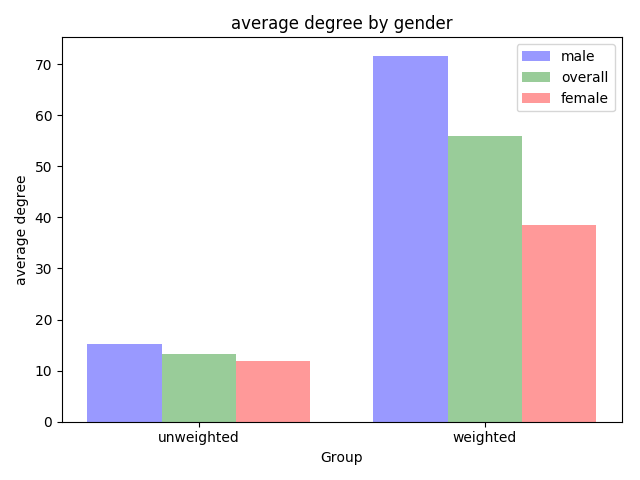
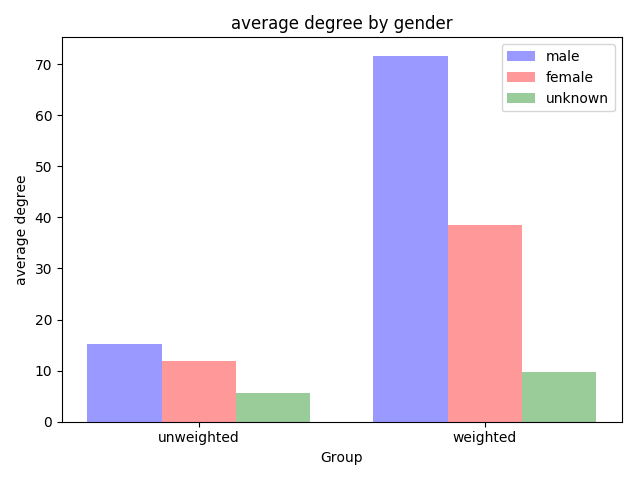
only dynamics, conclusion, future left

Changed region(s): [[0.6875, 0.2812, 0.9375, 0.9062], [0.25, 0.7188, 0.5, 0.9062], [0.7812, 0.0938, 0.9688, 0.2188]]

diff --git a/writeup/static_analysis.tex b/writeup/static_analysis.tex
@@ -1,8 +1,7 @@
 \section{Static-Network Analysis}
 
 \subsection{Small World}
-At the book's end, the largest component has 224 nodes and the diameter is 5.
-Since $ln(224) = 5.41$, we see that this network does indeed display the small world property, similar to real-world social networks.
+At the book's end, the largest component has 224 nodes and a diameter of 5. Like real-world social networks, the book's social network display the ``small world'' property, as the diameter grows with the log of the nodes ($ln(224) = 5.41$).
 
 \subsection{Degree Distribution}
 
@@ -16,38 +15,37 @@ Since $ln(224) = 5.41$, we see that this network does indeed display the small w
         \includegraphics[width=1.\textwidth]{images/unweighted_degree_distr_ccdf.pdf}
         \caption{Unweighted degree distribution.}
     \end{subfigure}
-    \caption{Degree distributions on a log-log scale. Though we do observe a heavy tail, we do not see a power law.}
+    \caption{Degree distributions on a log-log scale. The distribution has a heavy tail, but does not follow a power law.}
     \label{fig:degree_distr}
 \end{figure}
 
-The degree distributions for the weighted and unweighted networks are shown as a CCDF in Figure \ref{fig:degree_distr}. We see a heavy tail like we might expect from many real-world networks, but neither appear to show a power law in the tail. 
+The degree distributions for the weighted and unweighted networks are shown as a CCDF in Figure~\ref{fig:degree_distr}. We see a heavy tail like we as expect from many real-world networks, but neither the unweighted nor the weighted degree distribution show a power law in the tail. 
 
-In the unweighted network in particular we see a distribution that clearly has more high-degree nodes than expected under a Poisson random graph, yet the tail drops of much faster than expected in a scale-free network.
-The weighted degree distribution shows a heavier tail than the unweighted one, suggesting the distribution of character mentions within the book is much more uneven than the unweighted graph of character interactions. The weighted network is closer to a power law, though we still hesitate to call it scale-free.
+Particularly in the unweighted network, the degree distribution has more high-degree nodes than would expected if the network were a Poisson random graph, though the tail drops of more quickly than expected in a scale-free network.
 
-%$P(k) \sim k^{-\tau}$, or power law with a cutoff, $P(k) \sim k^{-\tau}10^{-k/c}$
+The weighted degree distribution has a heavier tail than the unweighted one, suggesting the distribution of character mentions is more uneven than the distribution of character interactions. The weighted network is closer to a power law, but not close enough to call scale-free.
 
-We can only speculate on the attachment mechanism behind the degree distribution, leaving testing such hypothesis to future work. Since the degree distribution does not follow a power law, vertex copying and preferential attachment do not make sense. 
-Perhaps main characters are introduced in the beginning, and the book does not contain many minor throw-away characters.
+We only speculate on the attachment mechanism behind the degree distribution. Vertex copying and preferential attachment do not make sense, as the degree distribution does not follow a power law. However, it seems reasonable that main characters receive more attention in a narrative network than would be expected in other kinds of networks, explaining some of the heavy tail.
 
-The average degree is 13.31 and the average weighted degree is 55.95
+The average unweighted degree is $13.31$ and the average weighted degree is $55.95$.
 
 \subsection{Clustering}
-Using the transitivity definition of clustering coefficient, we can examine the fraction of closed triads.
+We examine the fraction of closed triads by applying the transitivity definition of the clustering coefficient:
+
 $$ C = \frac{\text{(number of triangles)} \cdot 3}{\text{number of connected triples}} $$
 
-This metric disregards the edge weights, looking only at connections between characters. We find $C = 0.3930$, reflecting the relatively dense connections -- perhaps within communities such as the Tennis Academy or Halfway House -- as opposed to a tree-like structure rooted at the highest-degree (main) characters.
+This metric disregards edge weights and looks at only the connections between characters. We find $C = 0.3930$, reflecting a fairly high density of connections -- likely a result of the strong community structure in Enfield Tennis Academy and the Halfway House. We do \textit{not} observe a tree-like structure rooted at the highest-degree (main) characters.
 
-We can compare the clustering coefficient against the configuration model to determine if this effect is due to the degree sequence alone or perhaps reflects a conscious author choice. We find configuration model we get an average local clustering coefficient of 0$.1728$, vs $0.3930$ in the book. 
+To determine if this effect is due to the degree sequence alone or reflective of author choice, we compare the book's clustering coefficient to an estimate produced by the averaging 100 configuration model simulations. Our simulations produce an average local clustering coefficient of 0$.1728$ -- significantly lower than what was found in the book's network.
 
-For further (admittedly unscientific) reference, we calculated the transitivity for 5 of the smallest networks in the FB100. Admittedly those networks were larger than this book ($n=769$ to $1659$), but we found the clustering coefficient for them to be 0.2403, so on the same order of our results.
+We also compare the clustering coefficient against 5 of the smallest networks in the FB100 dataset. These networks range in size from $n=769$ to $n=1659$, significantly larger than the network present in \infinitejest. We find an average clustering coefficient of $0.2403$, which is closer to the book's results than our configuration model simulations. It seems that the book's network is more clustered than a real-world social network. It's worth noting that Alberich et al.\ (2002) found their Marvel network was \textit{less} clustered than real-world social networks.\cite{2002marvel}
 
 \subsection{Modularity}
-The book has three main communities: the Tennis Academy, the Ennet House, and the Wheelchair Assassins. The modularity of these hand-labeled communities is 0.291, calculated according to the following equation:
+The book's characters generally fall into one of two communities: Enfield Tennis Academy, or the Ennet House. We label these and a few other, smaller communities: the Wheelchair Assassins, the Antitois brothers, and persons associated with the US/ONAN government. The modularity of these hand-labeled communities is 0.291, calculated according to the following equation:
 
 $$Q = \frac{1}{2m}\sum_{ij} \left(A_{ij} - \frac{k_ik_j}{2m} \right) \delta(c_i,c_j) = \sum_u e_{uu} - a_u $$
 
-The greedy modularity maximization algorithm successfully recovers all three communities, though it places some high-degree nodes like Hal into their own community. Still, the hierarchically the detected communities have high agreement with the labeled communities, with a Normalized Mutual Information (NMI) of 0.605.
+A greedy modularity maximization algorithm successfully recovers these communities, though it does place high-degree nodes like Hal in their own community. Still, the greedy algorithm generates communities that are in high agreement with our hand-labeled set -- the two partitions have a Normalized Mutual Information of 0.605.
 
 \begin{figure}[ht]
     \centering
@@ -66,21 +64,19 @@ The greedy modularity maximization algorithm successfully recovers all three com
 The labeled communities and detected communities are visible in Figure \ref{fig:modularity}.
 
 \subsection{Assortativity}
-Since the network has clear community structure, we can begin to ask if characters in the network are associated with other characters according to certain attribute similarities. We examine gender assortativity and degree assortativity.
+How do characters interact based on their association and gender?
 
 \subsubsection{Degree Assortativity}
-We see an unweighted degree assortative mixing coefficient of -0.0945.
-Degree assortative networks typically reflect core-periphery structures, where a dense core of highly-connected nodes is surrounded by successively less-dense periphery nodes. Degree disassortative networks, on the other hand, are more stars with high-degree nodes connected to low-degree. 
+We observe an unweighted degree assortative mixing coefficient of -0.0945, showing some degree disassortativity. Degree assortative networks typically reflect core-periphery structures, where a dense core of highly-connected nodes is surrounded by successively less-dense periphery nodes. Degree disassortative networks, on the other hand, are more often configured like a star, where high-degree nodes connected to low-degree. 
 
-According to Newman in {\em Networks}, social networks are unusual in that they typically have a positive degree assortativity \cite{NewmanBook}. 
-Therefore it is strange for us to see disassortative mixing by degree in \infinitejest, possibly indicating more of a star-like structure or fewer community structures than real-world social networks.
+According to Newman in {\em Networks}, social networks are unusual in that they typically have a positive degree assortativity \cite{NewmanBook}. Therefore it is strange for us to see disassortative mixing by degree in \infinitejest. This indicates either a star-like structure or fewer community structures than would be expected of a real-world social network.
 
 \subsubsection{Gender Assortativity}
-To examine gender assortativity, we labeled all of the characters with a gender attribute where the gender was clear from the text. Of 229 nodes, we did not assign a label to 27 of them. We found the assortativity to be 0.0858, indicating positive assortative mixing by gender: genders of the same type are more likely to co-occur in this text. 
+To examine gender assortativity, we label the characters with a gender attribute where the gender was clear from the text. Of 229 nodes, 27 have no label assigned to them. We find the assortativity to be 0.0858, indicating positive assortative mixing by gender: genders of the same type are more likely to co-occur in this text. This is not particularly unexpected; as students who board at Enfield Tennis Academy do so separated by gender.
 
-This is somewhat expected from the narrative structure, because Hal is a teenager and all of the men board together in the Tennis Academy.
+\subsection{Centralities} 
 
-\subsection{Centralities}
+Who are the most important characters in the \infinitejest? There are, of course, many ways to answer that question. The top eight characters under degree and betweenness centralities can be found in Table \ref{tab:centralities}.
 
 \begin{table}[]
 \begin{tabular}{@{}lllll@{}}
@@ -101,20 +97,19 @@ This is somewhat expected from the narrative structure, because Hal is a teenage
 
 \end{table}
 
-Centralities answer the question of the most ``important'' vertices in the graph. Since we are analyzing \infinitejest, the question becomes which are the most important characters in the book. There are of course many contexts we could analyze importance from. To most closely align with the concept of main characters in books, we suspect simple degree centrality gives the best answer, since main characters tend to be mentioned more. 
+\subsubsection{Degree Centrality}
 
-However one could make an argument that in a novel with lots of moving parts, the most important characters might be the ones which connect disparate parts of the plot together and help drive it forward. In that respect, betweenness centrality shines. In \infinitejest, Don and Joelle are the only characters with significant interactions in both communities. Don also has interactions with the Wheelchair Assassins.
+We use degree centrality -- a proxy for mentions in our network structure -- to identify the characters with the most narrative space devoted to them and find it is able to recover the characters expected. It does tend towards characters associated with Enfield Tennis Academy, however.
 
-The top eight characters under degree and betweenness centralities can be found in Table \ref{tab:centralities}.
-
-
+\subsubsection{Betweenneness Centrality}
+We use betweenness centrality to determine the characters who are most important in connecting the novel's far-flung threads. Donald Gately and Joelle van Dyne, the characters ranked highest by this measure other than Hal, are the only characters with significant connections to both Enfield Tennis Academy and Ennet House. Don also has interactions with the Wheelchair Assassins.
 
 \subsection{Gender}
 
-\infinitejest has received significant criticism for its treatment of women.\cite{hayes-brady_2017} We found $144$ male entities, $58$ female entities, and $27$ entities of indeterminate gender or whose gender was unknown; there are nearly two-and-a-half times as many men as women.
+\infinitejest has received significant criticism for its treatment of women.\cite{hayes-brady_2017} We explore the question of bias in the book quantitatively. We find $144$ male entities, $58$ female entities, and $27$ entities of indeterminate or unknown gender; there are nearly two-and-a-half times as many men as women.
 
-\subsubsection{Average Degree}
-Figure~\ref{average-node-degree-by-gender} shows the difference in average degree by gender. Average unweighted degree can be seen as a rough approximation for the expected connectedness of a character. Average weighted degree can be seen as a rough approximation of the expected strength of a character's relationships. There is a difference between the average unweighted degrees of men and women, but it far less striking than the difference between their average weighted degrees. 
+\subsubsection{Average Degree by Gender}
+Figure~\ref{average-node-degree-by-gender} shows the difference in average degree by gender. Average unweighted degree can be seen as a rough approximation for the expected connectedness of a character. Average weighted degree can be seen as a rough approximation of the expected strength of a character's relationships. There is a difference between the average unweighted degrees of men and women, but it is far less striking than the difference between the averages of their weighted degrees. There are outliers, but women tend clearly to appear less frequently.
 
 \begin{figure}[ht!]
     \centering
@@ -123,20 +118,9 @@ Figure~\ref{average-node-degree-by-gender} shows the difference in average degre
     \label{average-node-degree-by-gender}
 \end{figure}
 
-\subsubsection{Betweenness}
-To explore gender bias in character betweennesses, we ran 100 simulations configuration model using the book's degree sequence, averaging the resulting betweennesses by character. Figure~\ref{difference-in-betweenness} plots a histogram of the differences between the book's betweennesses and our estimates. It shows that, independent of gender, most characters have a significantly lower betweenness in the book than the simulations would lead us to expect, but that several characters in the book have wildly higher betweennesses. It is worth noting that no characters with an indeterminate gender, or whose genders were unknown, had a significantly higher betweenness than expected.
+\subsubsection{Degree Sequence Distribution by Gender}
 
-Our findings on the whole indicate that there are several male and female characters who have a priviliged position in the network. Unsurprisingly, these privileged characters are all important: Donald Gately, Joelle van Dyne, Avril Incandenza, and Hal Incandenza are among them. A high betweenness seems like a reasonable consequence of narrative attention.
-   
-\begin{figure}[ht!]
-    \centering
-    \includegraphics[width=.4 \textwidth]{images/gender_betweenness_by_gender.png}
-    \caption{difference in book's betweennesses and those expected under the configuration model, by gender}
-    \label{difference-in-betweenness}
-\end{figure}
-
-\subsubsection{Degree Sequence}
- 
+Fgure~\ref{fig:degree_distr_gender} shows the weighted and unweighted degree distributions in CCDF, separated by gender. We see that, particularly in the weighted degree distribution, the plot for women has a significantly lighter tail than Figure~\ref{fig:degree_distr} might lead us to expect. This indicates there are a relatively large number of women with low degree, and there are some with high degree, but few in between.
 
 \begin{figure}[ht]
     \centering
@@ -149,6 +133,17 @@ Our findings on the whole indicate that there are several male and female charac
         \caption{Unweighted degree distribution by gender}
     \end{subfigure}
     \caption{Degree distributions by gender on a log-log scale.}
-    \label{fig:degree_distr}
+    \label{fig:degree_distr_gender}
 \end{figure}
 
+\subsubsection{Betweenness by Gender}
+To explore gender bias in character betweennesses, we run 100 simulations of a configuration model using the book's degree sequence to get an average of betweenness for each character. Figure~\ref{difference-in-betweenness} plots a histogram of the differences between the book's betweennesses and our estimates. It shows that, independent of gender, most characters have a significantly lower betweenness in the book than the simulations would lead us to expect, but that several characters in the book have \textit{wildly} higher betweennesses. It is worth noting that no characters with an indeterminate or unknown gender had a significantly higher betweenness than expected by the configuration model.
+
+We find there are several male and female characters who have a priviliged position in the network. Unsurprisingly, these privileged characters are all important: Donald Gately, Joelle van Dyne, Avril Incandenza, and Hal Incandenza are among them. A high betweenness seems a reasonable consequence of narrative attention.
+   
+\begin{figure}[ht!]
+    \centering
+    \includegraphics[width=.4 \textwidth]{images/gender_betweenness_by_gender.png}
+    \caption{difference in book's betweennesses and those expected under the configuration model, by gender}
+    \label{difference-in-betweenness}
+\end{figure}

diff --git a/writeup/data.tex b/writeup/data.tex
@@ -2,21 +2,21 @@
 
 \subsection{Data Source \& Preprocessing}
 
-To generate analyzable text this project utilizes an existing `.mobi' file of \infinitejest. This file is put through a `.mobi' to HTML conversion to generate an HTML formatted file as well as a `.mobi' to raw text conversion.
+We base our analysis on an existing `.mobi' file of \infinitejest. This file is put through a `.mobi' to HTML conversion to generate an HTML formatted file as well as a `.mobi' to raw text conversion.
 
-We identified endnote locations in the HTML file using regular expressions and replaced these endnotes with a simplified endnote tag to facilitate later interpolation of the endnote text.
+We identify endnote locations in the HTML file using regular expressions. We replace these endnotes with a simplified endnote tag to facilitate later interpolation of the endnote text.
 
-We used \textit{Elegant Complexity} as a resource to find the page numbers of sections and then manually compiled the strings each started with.~\cite{carlisle_2007} We then used regular expressions to take these section markers and identify section breaks.
+We used \textit{Elegant Complexity} as a resource to find pages with section breaks.~\cite{carlisle_2007} We manually compiled the strings each section started with. We use regular expressions to take these section markers and identify section breaks.
 
-We split the raw text by section and store each one in a separate file; endnotes are also stored in separate files. We remove all inessential special characters (e.g.\ special quotes). In our analyses all text files are imported as unicode.
+We split the raw text by section and store each one in a separate file; endnotes are also stored in separate files. We remove all inessential special characters (e.g.\ special quotes). We import text files as unicode in our analyses.
 
 \subsection{Named Entitiy Recognition}
 
-Entity recognition and disambiguation posed a significant challenge -- there are more than 200 characters in the novel, and that aliases, pseudonyms, and nicknames are used extensively. 
+Entity recognition and disambiguation pose a significant challenge -- there are more than 200 characters in the novel, and that aliases, pseudonyms, and nicknames are used extensively. 
 
-We utilized the Named Entity Recognition (NER) parser of the Python library SpaCy~\cite{spacy2} augmented with its own Matcher parser.
+We utilize the Named Entity Recognition (NER) parser of the Python library SpaCy~\cite{spacy2} augmented with its own Matcher parser.
 
-We ran the the library's built in NER model on the text and compared the entities it generated against our own, incrementally build, set. We manually added aliases/pseudonyms to our set of entities based on the candidates the NER model produced. Subsequent runs of the NER model then used our hand-made entity disambiguations. This enables SpaCy to identify a large number of the pseudonyms and aliases and their locations within each section of the text.
+To create a set of entities, we ran the the library's built in NER model on the text and compared the entities it generated against our own, incrementally built, set. We manually added aliases/pseudonyms to our set of entities based on the candidates the NER model produced. Subsequent runs of the NER model then used our hand-made entity disambiguations. This enables SpaCy to identify a large number of the pseudonyms and aliases and their locations within each section of the text.
 
 \subsection{Challenges and Considerations}
 
@@ -36,9 +36,9 @@ This exchange would be overlooked by our approach. While there are some approach
 As such, the use of named entities as nodes, and our methodology for identifying where they exist in text, enables the generation of a co-mention network. However, such a network may not perfectly capture true latent interaction structure of the book.
 
 \subsubsection{Point of View Sections}
-Several sections in the book are written in the first person. However, as the first person ``I'' is not a named entity (in the sense of being a proper noun), our matcher will not identify the character as an entity in the scene. For example, in the second section, where Hal talks about eating mold, our matcher fails to find him.
+Several sections in the book are written in the first person but, as the first person ``I'' is not a named entity (in the sense of being a proper noun), our matcher does not identify the narrating character as an entity in the scene. For example, in the second section, where Hal talks about eating mold, our matcher fails to find him.
 
-One approach would be manually annotating the sections that are in the first person point of view with their narrator. We could then replace first person pronouns with the character's name, but such an approach would need to do so only outside of dialogue.
+One solution to this would be to manually annotate the sections that are in the first person point of view with their narrator. With that information, it would be possible to replace first person pronouns with the character's name, but such an approach would need to do so only outside of dialogue. We do not do so in this work.
 
 \subsubsection{Reference versus Interaction}
 Our approach makes no effort do differentiate between \textit{reference} and \textit{interaction}. This makes it a co-mention network and not one of interaction.
@@ -50,15 +50,15 @@ We currently do not scope our entity matcher to a given section, so an alias or 
 I have been coached for this like a Don before a RICO hearing. 
 \end{displayquote}
 
-We match ``Don'' to Donald Gately, but in this instance, it is clear that Hal is not reffering to him. A solution would be scope entity matches to sections, but we have not done this.
+We match ``Don'' to Donald Gately, but in this instance, it is clear that Hal is not refering to him. A solution would be scope entity matches to sections, but we have not done this.
 
 \subsubsection{Disambiguation}
-Our matcher has no way of differentiating between two characters with the same name. Generally, we dealt with this by not matching on that name -- for instance, `Incandenza' does not match to James, Orin, Mario, Avril, or Hal, as we are unable to determine who is being referenced. Entity scoping to sections would help, but even then, this would pose a problem.
+Our matcher has no way of differentiating between two characters with the same name. Generally, we deal with this by not matching on that name -- for instance, `Incandenza' does not match to James, Orin, Mario, Avril, or Hal, as we are unable to determine who is being referenced. Entity scoping to sections would ameliorate, but not solve, this problem.
 
 \subsubsection{Hypergraph: a single match refering to multiple characters}
-``\ldots~the Vaught twins are heading down the hall to the bathroom at the far end\ldots'' (\infinitejest, section 159) Though the Vaught twins refers obviously to Sharyn and Caryn Vaught, our matcher does not pick up an entity from this sentence, as we have not built in a method for one match indicating more than one character.
+``\ldots~the Vaught twins are heading down the hall to the bathroom at the far end\ldots'' (\infinitejest, section 159) Though the Vaught twins refers to Sharyn and Caryn Vaught (obviously -- who could forget the Vaught twins?) our matcher does not pick up an entity from this sentence, as we have no mechanism for one ``match'' to indicate more than one character. Philosophically, this is perhaps the most glaring hole in our approach.
 
 \subsubsection{Pseudonyms}
 We treat pseudonyms as references to the pseudonymous individual. This is \textit{certainly} inappropriate, but seemed more appropriate to us than ignoring the reference entirely. As an example, Joelle van Dyne hosts a radio show under the pseudonym ``Madame Psychosis''; when a character mentions Madame Psychosis, we count that as a reference to Joelle van Dyne, despite the fact that the connection between the two -- Joelle van Dyne and Madame Psychosis -- is not common knowledge and is unlikely to be known to the mentioner.
 
-There are several solutions to this problem. One would be to represent pseudonyms as separate entities, but that has unappealing downsides (like failing to associate mentions of the pseudonym by those who are aware of the real entity with the real entity). Another would be to make a directed edge for certain matches, but this would require inferring the directionality of such mentions, something that cannot be done without deeper understanding of the text.
+There are several solutions to this problem. One would be to represent pseudonyms as separate entities, though this has unappealing downsides (like failing to associate mentions of the pseudonym with the real entity when the pseudonym mentioner is aware of the pseudonym ``bearer's'' real entity). Another would be to make a directed edge for certain matches, but this would require inferring the directionality of such mentions, which we cannot do without significantly deeper understanding of the text.

diff --git a/writeup/network.tex b/writeup/network.tex
@@ -1,20 +1,16 @@
 \section{\infinitejest as a Network}
 
-Our network represents characters as nodes and character co-mentions as weighted edges. The more of often two characters are mentioned in proximity to each other, the greater the weight of the edge between them. Our approach gives an extremely broad view of a book as a network of character co-mentions.
+Our network represents characters as nodes and character co-mentions as weighted edges. The more often two characters are mentioned in proximity to each other, the greater the weight of the edge between them. Our approach gives an extremely broad view of a book as a network of character co-mentions.
 
 Our choice of representing characters as nodes is fairly standard, but it worth noting that there are many possible definitions of an edge in a social network: character interaction, be it verbal (in dialogue) or physical, or sentiment. 
 
 There are certainly drawbacks to our approach -- dynamics of power between characters are entirely omitted -- but we found it still allowed us to gain insight into narrative flow and characteristics of nodes.
 
-\subsection{Network Design}
-
-\subsubsection{Nodes}
+\subsection{Nodes}
 Network nodes constitute characters identified in the set of found named entities. These were referenced against online resources to ensure proper coverage of the characters in the book.\cite{david_foster_wallace_wiki}
 
-\subsubsection{Edges}
-An edge represents a co-mention relationship between two entities in the text. Edges will not be created across section breaks, and we directly interpolate endnotes into the sections in which they appear. If an endnote references another endnote, we do not interpolate that referenced endnote into the refering endnote. We do interpolate the endnotes of endnotes into the endnote they refer to.
-
-A threshold number of tokens (words) under which the number of tokens between the mention of one entity and another determines if an edge with weight 1 is created. If the edge already exists, the weight is incremented by 1. The current entity $i$ is only matched with proceeding entities $j$ within this threshold.
+\subsection{Edges}
+An edge represents a co-mention relationship between two entities in the text. A threshold number of tokens (words) under which the number of tokens between the mention of one entity and another determines if an edge with weight 1 is created. If the edge already exists, the weight is incremented by 1. The current entity $i$ is only matched with proceeding entities $j$ within this threshold.
 
 The threshold number of tokens is determined by a heuristic measure of the effect of the threshold length on the average clustering coefficient and the giant component size (see Figure \ref{fig-threshold-size}). The intuition behind these metrics is to choose the minimum threshold required to produce a giant component and a clustering coefficient that captures the highly connected nature of characters in the novel. Our threshold is 50 tokens.
 
@@ -33,11 +29,14 @@ The threshold number of tokens is determined by a heuristic measure of the effec
     \label{fig-threshold-size}
 \end{figure}
 
+\subsubsection{Text Treatment}
+Edges are not created across section breaks. Endnotes are directly interpolated into the section they are referenced in. If an endnote (the \textit{referring} endnote) refers to another endnote (the \textit{referred} endnote), the referred endnote is not interpolated into the referring endnote.
+
 \subsubsection{Section as Snapshots and Modeling Recency}
-In order to make comparisons between the book's ordering of events ('booktime') and the chronological ordering, we constructed a timelapse of graph snapshots that represents the aggregate graph structure up to the current section in the given ordering. Regardless of the ordering, the graph at the end of each sequence is identical. To model the differences in exposure to narratives and characters between the two orderings, we add a mechanism to decay the weights of the graph. Whenever a section is applied to the cumulative network, that section's weights are passed through a decay function orginially developed by psychologist Hermann Ebinghaus dubbed a `forgetting curve'. This curve is as follows:
+To comparison the book's ordering of events ('booktime') and the chronological ordering, we construct a timelapse of graph snapshots representing the aggregate graph structure up to the current section in the given ordering. Regardless of the ordering, the graph at the end of each sequence is identical. We add a mechanism to decay the weights of the graph in an effort to model the differences in exposure to narratives and characters between the two orderings. Whenever a section is applied to the cumulative network, that section's weights are passed through a decay function orginially developed by psychologist Hermann Ebinghaus dubbed a `forgetting curve'. This curve is as follows:
 
 \begin{equation}
     R = e^{\frac{-t}{(10000*s)}}
 \end{equation}
 
-Here $R$ represents the memory retention. $t$ represents the time (the number of tokens in the section). $s$ represents memory stability. The exponent is scaled by $\frac{1}{10000}$ to ensure reasonable memory retention values between $0$ and $1$. This approach enables us build a rough model the decaying memory of a reader to the narrative and character exposure differences between `chronological' and `booktime' section orderings.
+$R$ represents the memory retention; $t$ represents the time (the number of tokens in the section); $s$ represents memory stability; the exponent is scaled by $\frac{1}{10000}$ to ensure reasonable memory retention values between $0$ and $1$. The approach is a rough model of the decaying memory of a reader and helps highlight differences in exposure to narrative events and characters in the `chronological' and `booktime' section orderings.

diff --git a/writeup/introduction.tex b/writeup/introduction.tex
@@ -1,15 +1,13 @@
 \section{Introduction}
 
-Does a story mirror the world, or show a different one? How does a story's structure impact its narrative?
-
-We analyze David Foster Wallace's \infinitejest as a network in an attempt to answer variants of these two questions:
+Does a story mirror the world, or show a different one? How does a story's structure impact its narrative? We analyze David Foster Wallace's \infinitejest as a network in an attempt to answer variants of these two questions:
 
 \begin{enumerate}
     \item Does the story's social network mirror the world or show a different one?
     \item Why did the author choose to structure the narrative out of chronological order?
 \end{enumerate}
 
-To answer these questions, we extract a network of character interactions that grows as the book progresses. We pursue our analyses in two contexts:
+To do so, we extract a network of character interactions that grows as the book progresses and pursue analyses in two contexts:
 
 \begin{enumerate}
     \item \textbf{Statically}: analyzing the state of the book's network at the time of its end. 
@@ -30,6 +28,6 @@ We also explore gender bias in the network, an aspect of the book that has recei
 
 In \infinitejest the world is revealed only in pieces and indirectly, and it is up to the reader to stitch those pieces together to create complete picture and to maintain a coherent view of the story as it progresses. 
 
-It's a non-statement to say that a novel's structure impacts its narrative, but it is far from so easy to answer the question ``how?'' In an effort to answer this question quantitatively, we ask: ``does the decision to tell the story out of chronological order make it more or less comprehensible for the reader?''
+It's a non-statement to say that a novel's structure impacts its narrative, but it is far from so easy to answer the question ``how?'' In an effort to answer this question quantitatively, we ask: ``does the decision to tell the story out of chronological order make it more or less comprehensible for the reader?'' and compare the dynamics produced by growing the network in the two orderings.
 
 Our examination of the book's chronology leads us to a new understanding of the kinds of functions events in the book take on and encourages a distinction between events that expose the world (functioning as exposition), and those that drive the narrative forward.

diff --git a/writeup/background.tex b/writeup/background.tex
@@ -2,6 +2,8 @@
 
 ``Certain kind of parallel lines are supposed to start converging in such a way that an `end' can be projected by the reader somewhere beyond the right frame. If no such convergence or projection occured to you, then the book's failed for you.'' -- David Foster Wallace \cite{badger_internet_1996}
 
+\infinitejest is a large ``post-postmodern'' novel with an intricate plot. It's title comes from \textit{Hamlet}.
+
 \subsection{The structure of \infinitejest}
 
 \infinitejest's structure differs from that of a typical book in a number of ways.
@@ -36,7 +38,7 @@ The book uses endnotes extensively to convey additional information of varying d
 
 We are not the first to mine networks from literature or to apply data-driven techniques to evaluate a hypothesis.
 
-Reagan et al.\ use NLP and sentiment to analyze 1,327 stories from Project Gutenberg in an effort to confirm Kurt Vonnegut's rejected Master's thesis categorizing story arcs into six types by emotion; they indeed find six core emotional trajectories, and they use the number of downloads of stories with each archetypal arc-type to evaluate each type's popularity~\cite{Reagan2016}.
+Reagan et al.\ use NLP and sentiment to analyze 1,327 stories from Project Gutenberg in an effort to confirm Kurt Vonnegut's rejected Master's thesis categorizing story arcs into six archetypes by emotion; they indeed find six core emotional trajectories, and they use the number of downloads of stories with each archetypal arc-type to evaluate each archetype's popularity~\cite{Reagan2016}.
 
 Alberich et al. (2002) build bipartite social network out of Marvel comic book character appearances in comic books, finding many similar characteristics to real-life scientific collaboration networks such as short distances and a power-law degree distribution tail with a cutoff~\cite{2002marvel}. Notably, they find a lower clustering coefficient than expected in real networks.
 

diff --git a/src/plots.py b/src/plots.py
@@ -282,7 +282,7 @@ def plot_gender():
 
     women = (content['unweighted']['female'], content['weighted']['female'])
     men = (content['unweighted']['male'], content['weighted']['male'])
-    overall = (content['unweighted']['overall'], content['weighted']['overall'])
+    unknown = (content['unweighted']['unknown'], content['weighted']['unknown'])
 
     fig, ax = plt.subplots()
 
@@ -297,15 +297,15 @@ def plot_gender():
                     error_kw=error_config,
                     label='male')
 
-    rects2 = ax.bar(index + bar_width + (index * bar_width), overall, bar_width,
-                    alpha=opacity, color='g',
-                    error_kw=error_config,
-                    label='overall')
-
-    rects3 = ax.bar(index + 2 * bar_width +  (index * bar_width), women, bar_width,
+    rects2 = ax.bar(index + bar_width + (index * bar_width), women, bar_width,
                     alpha=opacity, color='r',
                     error_kw=error_config,
                     label='female')
+
+    rects3 = ax.bar(index + 2 * bar_width +  (index * bar_width), unknown, bar_width,
+                    alpha=opacity, color='g',
+                    error_kw=error_config,
+                    label='unknown')
 
     ax.set_xlabel('Group')
     ax.set_ylabel('average degree')

diff --git a/src/analyze.py b/src/analyze.py
@@ -223,10 +223,12 @@ def analyze_gender(gg, weighted=True):
 
             degrees_by_gender[degree_type]['overall'].append(degree)
         
-            gender = G.nodes[node].get('gender')
+            gender = G.nodes[node].get('gender', 'unknown')
 
-            if gender:
-                degrees_by_gender[degree_type][gender].append(degree)
+            if gender == None:
+                gender = 'unknown'
+
+            degrees_by_gender[degree_type][gender].append(degree)
 
 
     calculated = defaultdict(dict)
@@ -378,10 +380,10 @@ if __name__ == "__main__":
 
     print("Analyzing book!")
     # analyze_gender_by_configuration(gg.G, weighted=weighted)
-    analyze_gender_attachments(gg, weighted=weighted)
+    # analyze_gender_attachments(gg, weighted=weighted)
     # analyze_communities(gg)
     # analyze_dynamics(gg, chronological=args.chronological, weighted=weighted)
-    # analyze_gender(gg, weighted=weighted)
+    analyze_gender(gg, weighted=weighted)
     # analyze_centralities(gg.G, weighted=weighted)
     # analyze_assortativity(gg.G)
 
